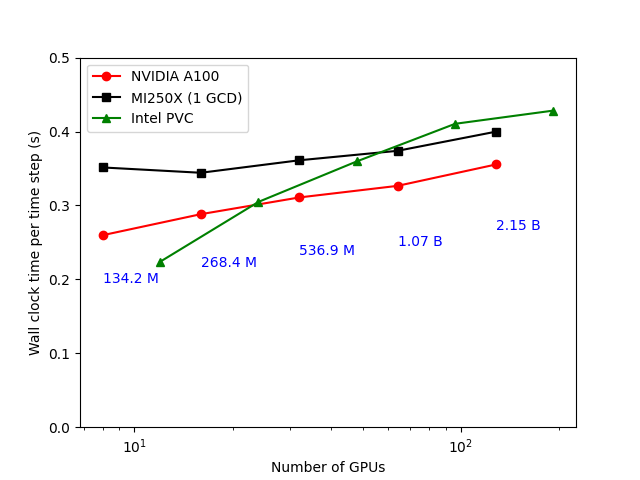
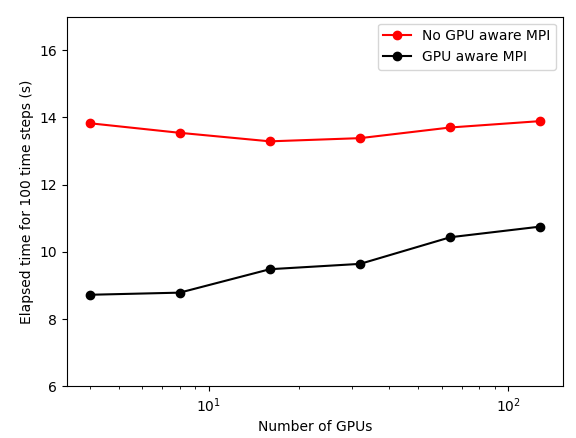
Adding GPU aware comparison plot

diff --git a/Docs/sphinx_doc/Performance.rst b/Docs/sphinx_doc/Performance.rst
@@ -19,6 +19,8 @@ A weak scaling test was performed on CPUs with a mesh size of :math:`(512,512,25
 
 A weak scaling test was also performed on GPUs with a mesh size of :math:`(256,256,512)` on 1 GPU node, and the number of cells was progressively scaled to :math:`(2048,1024,512)` on 32 nodes. The total elapsed time for 100 iterations with and without GPU-aware-MPI is shown in figure below. The nearly constant timings show excellent weak scaling and the benefits of GPU-aware-MPI are clearly observed with the 25-35% speed-up.
 
+Weak scaling comparison on GPUs was performed on Perlmutter (NVIDIA A100), Frontier (AMD MI350X (1 GCD)) and Aurora (Intel Data Center GPU Max Series (Ponte Vecchio GPU)). The results are shown in the figure below. Good weak scaling is observed upto 2.1 billion mesh cells with ~0.3 seconds per time step.
+
 .. figure:: figures/StrongScaling_CPU.png
    :alt: Strong scaling on CPUs
    :name: strong_CPU
@@ -57,4 +59,12 @@ A weak scaling test was also performed on GPUs with a mesh size of :math:`(256,2
    :figwidth: 45%
    :align: left
 
-   **Weak scaling on GPUs on Perlmutter (NVIDIA A100), Frontier (AMD MI250X (1 GCD)) and Aurora (Intel Max Series GPUs PVC)**
+   **Weak scaling on GPUs with and without GPU-aware MPI on Perlmutter (NVIDIA A100)**
+
+.. figure:: figures/WeakScaling_GPU_All.png
+   :alt: Weak scaling on GPUs
+   :name: weak_GPU_All
+   :figwidth: 45%
+   :align: left
+
+   **Weak scaling on GPUs: Perlmutter (NVIDIA A100), Frontier (AMD MI250X (1 GCD)) and Aurora (Intel Data Center GPU Max Series (PVC))**
